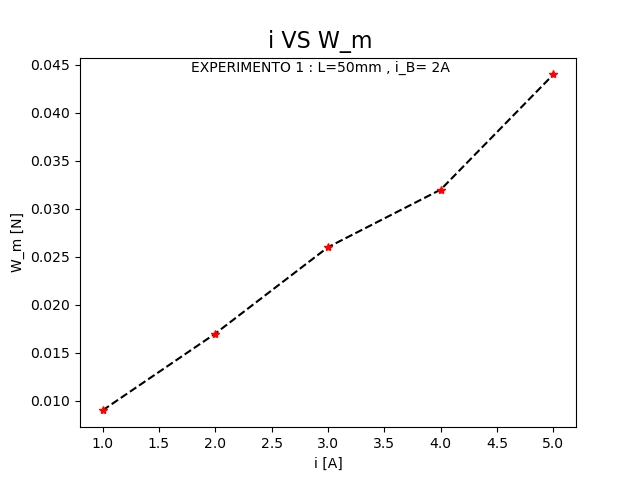
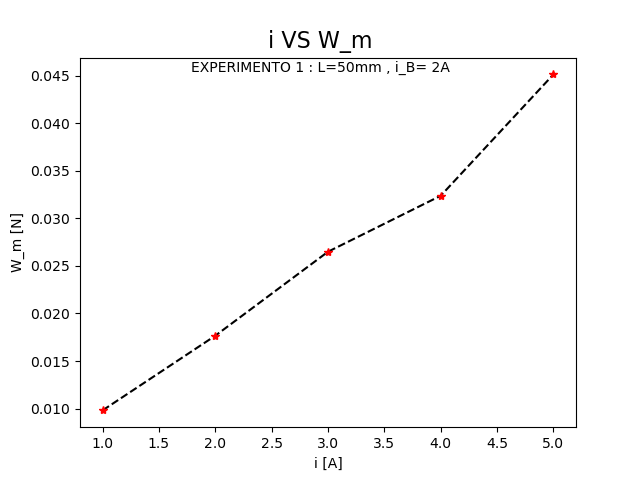
Last LAB

diff --git a/graficas/Tf.py b/graficas/Tf.py
@@ -1,0 +1,28 @@
+import matplotlib.pyplot as plt
+import os.path
+
+
+
+w_m=[0.004905, 0.00981, 0.017658]
+L=[ 0.0125, 0.025, 0.05,]
+
+
+
+
+
+plt.plot(L,w_m,'--', color='black')
+plt.plot(L,w_m,'*y')
+plt.ylabel('W_m [N]')
+plt.xlabel('L [m]')
+
+plt.axes([1,5,0,0.5])
+plt.figtext(.5,.9,'W_m vs L', fontsize=16, ha='center')
+plt.figtext(.5,.85,'i=2 [A] y i_b=2 [A]',fontsize=10,ha='center')
+
+
+if os.path.isfile('ff.png'):
+    print ("File already exist.. cannot save new figure")
+else:
+    print ("Figure ff saved...")
+    plt.savefig('ff.png')
+plt.show()

diff --git a/graficas/1_2.py b/graficas/1_2.py
@@ -4,7 +4,9 @@ import os.path
 m=36.7/1000
 w=m*9.81
 i_b=[1, 1.5, 2, 2.5, 3]
-w_i=[0.368, 0.373, 0.378, 0.382, 0.387]
+m_i=[0.0376, 0.0381, 0.0386, 0.039, 0.0395]
+
+w_i=[x *9.81 for x in m_i]
 
 w_m=[x - w for x in w_i]
 print('W_m 1_2 : ', w_m)
@@ -13,7 +15,7 @@ print('W_m 1_2 : ', w_m)
 
 plt.plot(i_b,w_m,'--', color='black')
 plt.plot(i_b,w_m,'*r')
-plt.ylabel('W_i [N]')
+plt.ylabel('W_m [N]')
 plt.xlabel('i_b [A]')
 
 plt.axes([1,5,0,0.5])

diff --git a/graficas/3_2.py b/graficas/3_2.py
@@ -7,16 +7,15 @@ w=m*9.81
 
 i_b=[1,1.5,2,2.5,3]
 
-m_i=[33.3, 33.6, 33.8, 34,34.3]
-m_kg = [x / 1000 for x in m_i]
-w_i= [x*9.81 for x in m_kg]
+m_i=[0.0333, 0.0336, 0.0338, 0.034, 0.0343]
+w_i= [x*9.81 for x in m_i]
 
 w_m=[x - w for x in w_i]
 print('W_m 3_2 : ', w_m)
 
 plt.plot(i_b,w_m,'--', color='black')
 plt.plot(i_b,w_m,'*g')
-plt.ylabel('W_i [N]')
+plt.ylabel('W_m [N]')
 plt.xlabel('i_b [A]')
 
 plt.axes([1,5,0,0.5])

diff --git a/graficas/2_2.py b/graficas/2_2.py
@@ -7,7 +7,10 @@ m=32.8/1000
 w=m*9.81
 
 i_b=[1, 1.5, 2, 2.5, 3]
-w_i=[0.323, 0.324, 0.326, 0.327, 0.328]
+
+m_i= [0.033, 0.0331, 0.0333, 0.0334, 0.0335]
+
+w_i=[x *9.81 for x in m_i]
 
 
 w_m=[x - w for x in w_i]
@@ -15,7 +18,7 @@ print('W_m 2_2 : ', w_m)
 
 plt.plot(i_b,w_m,'--', color='black')
 plt.plot(i_b,w_m,'*b')
-plt.ylabel('W_i [N]')
+plt.ylabel('W_m [N]')
 plt.xlabel('i_b [A]')
 
 plt.axes([1,5,0,0.5])

diff --git a/graficas/3_1.py b/graficas/3_1.py
@@ -6,14 +6,16 @@ m=32.8/1000
 w=m*9.81
 
 i=[1, 2,3,4,5]
-w_i=[0.327, 0.331, 0.336, 0.341, 0.345]
+
+m_i=[0.0334, 0.0338, 0.0343, 0.0348, 0.0352]
+w_i=[x *9.81 for x in m_i]
 
 w_m=[x - w for x in w_i]
 print('W_m 3_1 : ', w_m)
 
 plt.plot(i,w_m,'--', color='black')
 plt.plot(i,w_m,'*g')
-plt.ylabel('W_i [N]')
+plt.ylabel('W_m [N]')
 plt.xlabel('i [A]')
 
 plt.axes([1,5,0,0.5])

diff --git a/graficas/1_1.py b/graficas/1_1.py
@@ -5,8 +5,12 @@ import os.path
 m=36.7/1000
 w=m*9.81
 i=[1,2,3,4,5]
-w_i=[0.369,0.377,0.386,0.392,0.404]
+m_i=[0.0377, 0.0385, 0.0394, 0.04, 0.0413]
+w_i=[x *9.81 for x in m_i]
 
+print('w: ',w)
+print('m: ', m)
+print('w_i: ', w_i)
 w_m=[x - w for x in w_i]
 print('W_m 1_1 : ', w_m)
 

diff --git a/graficas/2_1.py b/graficas/2_1.py
@@ -7,9 +7,13 @@ import os.path
 m=32.8/1000
 w=m*9.81
 print('w: ',w)
+print('m: ', m)
 
 i=[1,2,3,4,5]
-w_i=[0.324, 0.326,0.328,0.331, 0.333]
+m_i=[0.0331, 0.0333, 0.0335, 0.0338, 0.034]
+
+
+w_i=[x *9.81 for x in m_i]
 
 w_m=[x - w for x in w_i]
 print('W_m 2_1 : ', w_m)

diff --git a/graficas/tablas/tablas_ib_cte.py b/graficas/tablas/tablas_ib_cte.py
@@ -1,0 +1,13 @@
+import pandas as pd
+i_b=2
+
+i=[1,2,3,4,5]
+m=[37.7, 38.5, 39.4, 40.0, 41.3]
+
+df= pd.DataFrame()
+
+df['i']=i
+df['m']=m
+
+df.set_index('i')
+display(df)
